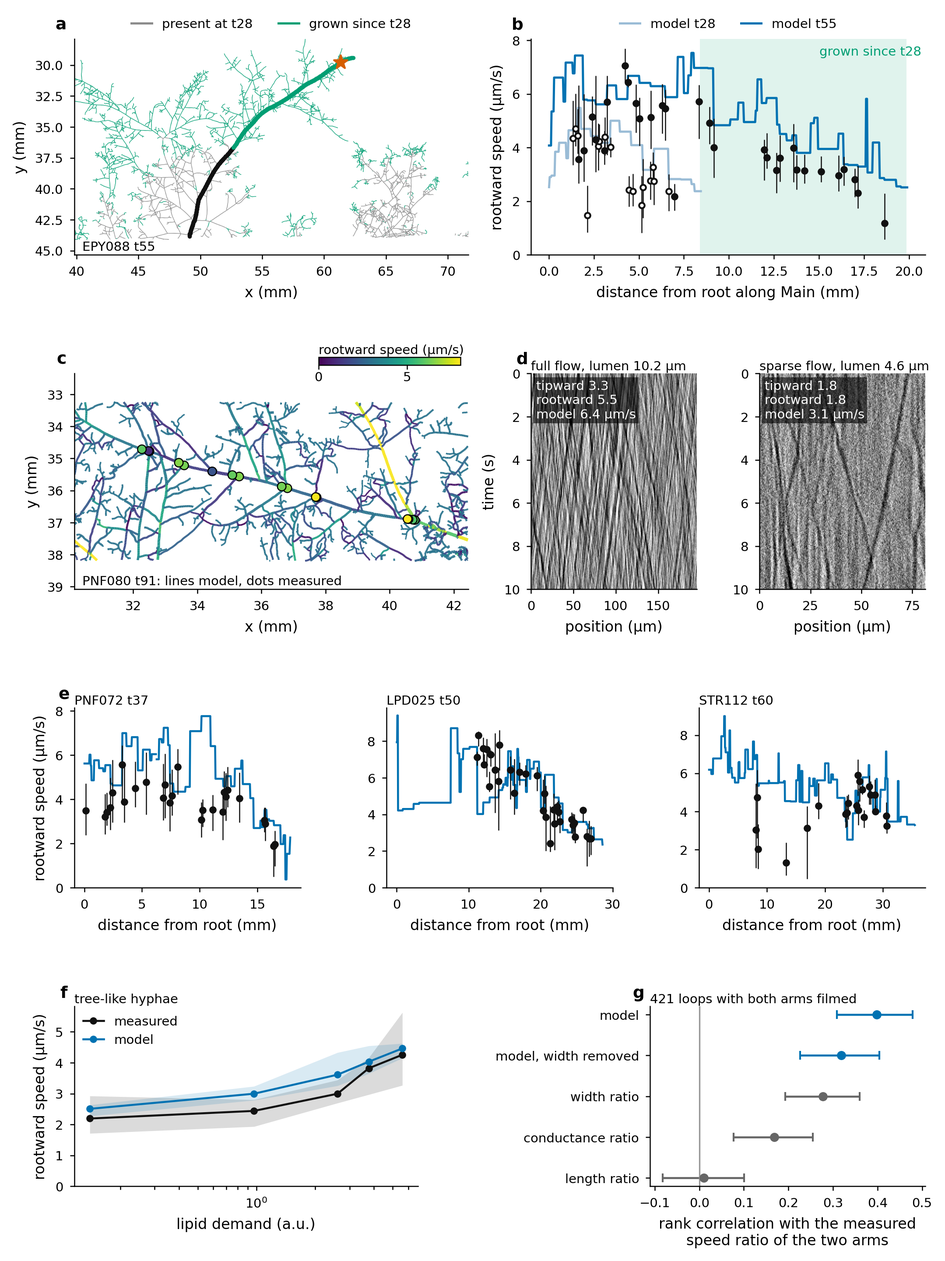
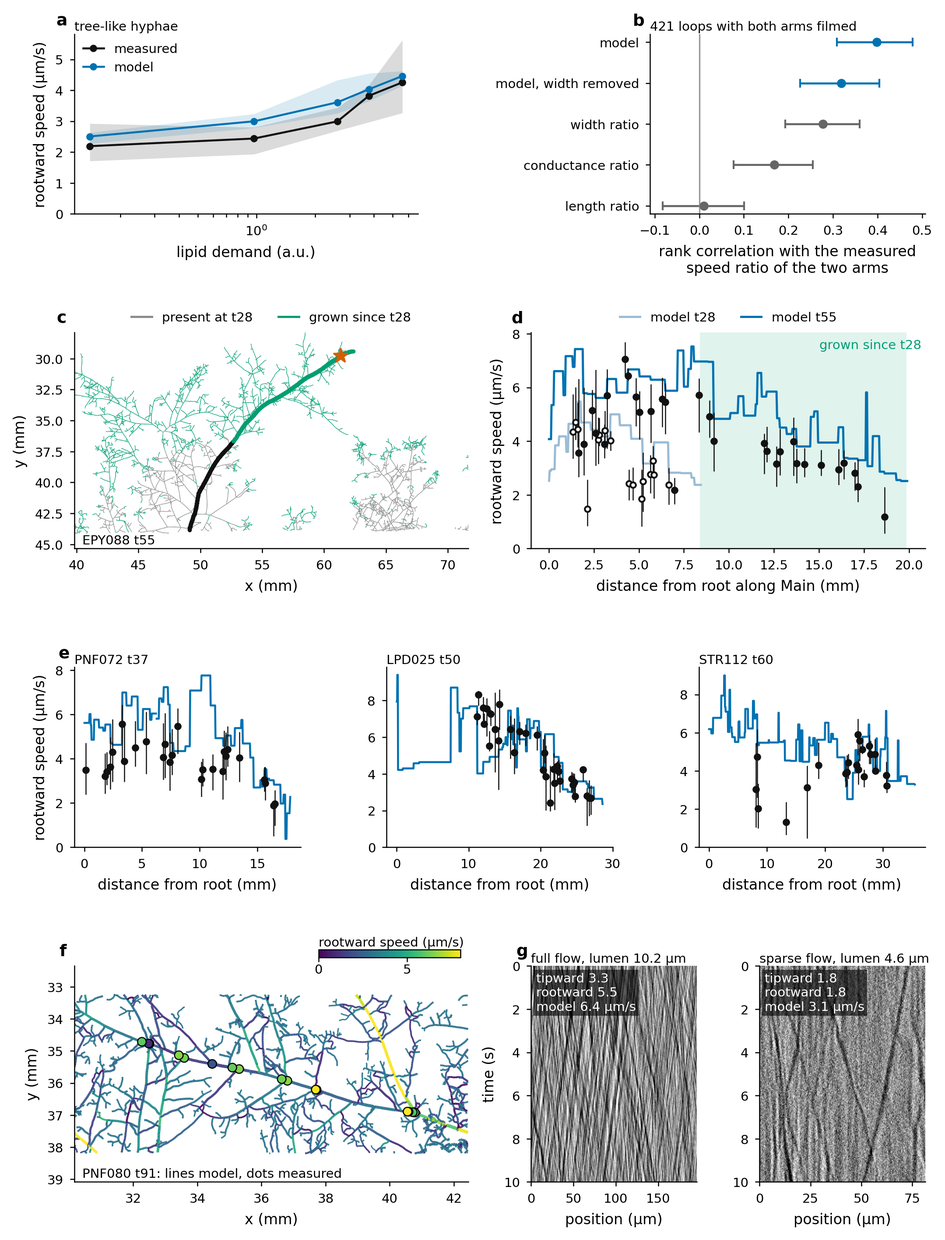
Fig 6 reordered to follow the Fig 4 properties it tests (a tree, b loops, c-d growth, e plates, f-g misses); caption reordered and retitled; panel references in notes remapped

diff --git a/01_Article_MainText.tex b/01_Article_MainText.tex
@@ -304,7 +304,7 @@ A number of properties can be shown in toy networks (Figure~\ref{fig:schematic_m
 Tree networks aggregate backflow into their central trunk,   increasing flow rate (Figure \ref{fig:schematic_model}D).
 This increase in flow rate can increase backflow speeds, if not modulated by a greater flow capacity, which can be done by increasing the diameter (Figure \ref{fig:schematic_model}E).
 One feature this model also predicts is circularity in added loops, specifically if these have a width imbalance.
-% NOTE (16 Oct, Fig 4G): In the model, motor speed depends on the distance to the nearest tip, not on demand. Growth raises the routed lipid demand, which thickens the motor-driven condensate layer and so increases the volume the motors carry and with it the return. On EPY088 Main (Fig 6b), demand rose 3.3-fold and the model's return flux 1.56-fold (see the Fig 6b note).
+% NOTE (16 Oct, Fig 4G): In the model, motor speed depends on the distance to the nearest tip, not on demand. Growth raises the routed lipid demand, which thickens the motor-driven condensate layer and so increases the volume the motors carry and with it the return. On EPY088 Main (Fig 6d), demand rose 3.3-fold and the model's return flux 1.56-fold (see the Fig 6d note).
 The pressure difference that has to be serviced by both makes the wide arm flow faster, and the narrow arm far slower than in just a single edge.
 % NOTE (7 Oct, terminology): The terms 'width imbalance', 'wide arm' and 'narrow arm' here, and 'Width has a calming effect' in the Fig 4 caption (E, I), need diameter wording per the width rule.
 While this increases energy overall in the network, these induced circularities likely facilitate the distribution of nutrients in the backflow throughout the network (Figure \ref{fig:schematic_model}F).
@@ -355,24 +355,24 @@ Paler points have a larger uncertainty (the measured interquartile range and the
     \label{fig:fig5_plug}
 \end{figure}
 % NOTE (15 Oct, main-text review): The Fig 5 caption was drafted by Claude (Simon, 15 Oct) from the current panels and numbers (note below). Panel (b) shows the Bayesian fit, while the model runs on the earlier least-squares constants of the same form (3.10 / 2.14 um/s, 1.71 mm; Methods), so 'motors at the profile of (b)' is approximate.
-% NOTE (15 Oct, Keras widths; supersedes the numbers of the Fig 5 notes above where they differ): The main model now runs on the recalibrated Keras widths (0.75 times the legacy Keras width, with a fallback of 0.83 times the segmenter width; Methods, transport model). The files figures/fig_plug_model.png and fig6_model_examples.png were redrawn (transport_paper junction/global_gimf_gimf_minedge20_keras_ratio_fb, feat/flow-regime). In (a), with 1,544 edges in 15 sessions, 77.5 % of all edges are within a factor of 2 (segmenter widths 78.0 %), KS is 0.056 and the median fold error is 1.45. Panel (b) is unchanged. In (c), 274 trail segments are 86 % within a factor of 2, with bias 1.21. In (d) the bin counts are unchanged (3, 14, 19, 65, 73, 100, 130, 88). In Fig 6b, 30 segments are 90 % within a factor of 2, with median |log2 error| 0.31. Model over measured by lumen-width tercile is 1.15 / 1.03 / 0.99 (segmenter 1.20 / 1.05 / 0.96). Within 1 mm of a tip the model gives 3.11 um/s (segmenter 2.84, measured 2.17); beyond 8 mm it gives 3.50 (measured 4.22). The theta sweep and the model-variant comparisons were run on the segmenter widths.
-% NOTE (17 Oct, Fig 5c window, Simon): Panel c now shows both the model and the measurement as medians over the trail's segments within +-0.5 mm (model_accuracy_two_models.py --model-window-median 500 --meas-window-median 500; only panel c changed). Sweep on the 274 segments (within 2x / bias / mean |log2 err| / log-log rho): no window 86 % / 1.21 / 0.56 / 0.18; model only 500 um 87 % / 1.19 / 0.52 / 0.18; measured only 500 um 85 % / 1.19 / 0.52 / 0.17; both 250 um 88 % / 1.19 / 0.51 / 0.17; both 500 um 88 % / 1.17 / 0.48 / 0.19; both 1 mm 89 % / 1.17 / 0.47 / 0.18; both 2 mm 93 % / 1.17 / 0.40 / 0.29 (at that scale it compares trail trends, and neighbouring points share most of their data). A constant model (4.2 um/s on every segment) is within a factor of 2 on 91 % of these segments, because the measured speeds span a narrow range (25th-75th percentile 3.0-4.4 um/s), so the within-2x share on trail segments is a weak test; the model's case rests on the distribution over all edges (5a), the rise away from tips (5d), growth (6b) and routing (6g).
+% NOTE (15 Oct, Keras widths; supersedes the numbers of the Fig 5 notes above where they differ): The main model now runs on the recalibrated Keras widths (0.75 times the legacy Keras width, with a fallback of 0.83 times the segmenter width; Methods, transport model). The files figures/fig_plug_model.png and fig6_model_examples.png were redrawn (transport_paper junction/global_gimf_gimf_minedge20_keras_ratio_fb, feat/flow-regime). In (a), with 1,544 edges in 15 sessions, 77.5 % of all edges are within a factor of 2 (segmenter widths 78.0 %), KS is 0.056 and the median fold error is 1.45. Panel (b) is unchanged. In (c), 274 trail segments are 86 % within a factor of 2, with bias 1.21. In (d) the bin counts are unchanged (3, 14, 19, 65, 73, 100, 130, 88). In Fig 6d, 30 segments are 90 % within a factor of 2, with median |log2 error| 0.31. Model over measured by lumen-width tercile is 1.15 / 1.03 / 0.99 (segmenter 1.20 / 1.05 / 0.96). Within 1 mm of a tip the model gives 3.11 um/s (segmenter 2.84, measured 2.17); beyond 8 mm it gives 3.50 (measured 4.22). The theta sweep and the model-variant comparisons were run on the segmenter widths.
+% NOTE (17 Oct, Fig 5c window, Simon): Panel c now shows both the model and the measurement as medians over the trail's segments within +-0.5 mm (model_accuracy_two_models.py --model-window-median 500 --meas-window-median 500; only panel c changed). Sweep on the 274 segments (within 2x / bias / mean |log2 err| / log-log rho): no window 86 % / 1.21 / 0.56 / 0.18; model only 500 um 87 % / 1.19 / 0.52 / 0.18; measured only 500 um 85 % / 1.19 / 0.52 / 0.17; both 250 um 88 % / 1.19 / 0.51 / 0.17; both 500 um 88 % / 1.17 / 0.48 / 0.19; both 1 mm 89 % / 1.17 / 0.47 / 0.18; both 2 mm 93 % / 1.17 / 0.40 / 0.29 (at that scale it compares trail trends, and neighbouring points share most of their data). A constant model (4.2 um/s on every segment) is within a factor of 2 on 91 % of these segments, because the measured speeds span a narrow range (25th-75th percentile 3.0-4.4 um/s), so the within-2x share on trail segments is a weak test; the model's case rests on the distribution over all edges (5a), the rise away from tips (5d), growth (6d) and routing (6b).
 
 \begin{figure}
     \centering
     \includegraphics[width=\linewidth]{figures/fig6_model_examples.png}
-    \caption{\textbf{The model follows a trail as it grows; where it misses, the network solve or the flow itself is the cause.}
+    \caption{\textbf{Network-level tests of the model's predictions (Fig.~\ref{fig:schematic_model}D-G), and where it misses.}
 Model as in Fig.~\ref{fig:fig5_plug} (blue); measured bright-field rootward speed per trail segment, median with 25th--75th percentile (black).
-\textbf{(a)} Network of EPY088 at session t55, every hypha coloured by whether it was present at t28 (grey) or grew since (green), with trail Main in bold: the stretch that existed at t28 (black) and the stretch grown since (green, 8.4 to 19.8~mm), and its tip (star).
-\textbf{(b)} Rootward speed along Main against the distance from the root, model at t28 (light blue) and t55 (blue; running median over 5 segments), measured at t28 (open) and t55 (filled); green: grown since t28.
+\textbf{(a)} Tree-like hyphae (edges on no loop that carry lipid demand, 111 edges): rootward speed against the routed lipid demand, medians of the five demand quintiles with 25th--75th percentile, measured (black) and model (blue); the model is within a factor 2 of the measurement on 94\% of these edges.
+\textbf{(b)} Loops with both arms filmed (421 loops): rank correlation with the measured rootward speed ratio of the two arms, for the model, for the model with the arms' width ratio removed from both ratios (partial correlation), and for the width, conductance and length ratios of the two arms, with bootstrap 95\% intervals.
+\textbf{(c)} Network of EPY088 at session t55, every hypha coloured by whether it was present at t28 (grey) or grew since (green), with trail Main in bold: the stretch that existed at t28 (black) and the stretch grown since (green, 8.4 to 19.8~mm), and its tip (star).
+\textbf{(d)} Rootward speed along Main against the distance from the root, model at t28 (light blue) and t55 (blue; running median over 5 segments), measured at t28 (open) and t55 (filled); green: grown since t28.
 On the stretch that existed at t28 the model rises 1.51-fold (median 4.17 to 6.29~$\mu$m/s) and the measurement 1.71-fold (3.01 to 5.14~$\mu$m/s; 16 and 15 segments); at t55, 90\% of the 30 measured segments are within a factor 2 of the model (median $|\log_2|$ error 0.31).
-\textbf{(c)} Where the model sends a hypha's return elsewhere: trail LeftMiddle of PNF080 at t91, 8 to 19~mm from the root, every edge coloured by the modelled rootward speed (line width proportional to hyphal width) and the 16 measured segments by the measured one, on the same scale.
-Measured: median 6.3~$\mu$m/s to the root and 3.3~$\mu$m/s to the tip; model: 2.1~$\mu$m/s, because the pressure solve returns only 0.66 (interquartile range 0.47--0.79) of the trail's motor stream through its own core and sends the rest back through neighbouring hyphae.
-\textbf{(d)} Full and sparse flow: bright-field kymographs of two edges of PNF080 at t81, both more than 6~mm from a growing tip (moving signal only, time mean removed; 20 frames per second).
-Left, full flow (lumen 10.2~$\mu$m): tipward 3.3, rootward 5.5, model 6.4~$\mu$m/s; right, sparse flow (lumen 4.6~$\mu$m): few, faint streaks at 1.8~$\mu$m/s in both directions, model 3.1~$\mu$m/s (SI, \nameref{subsec:si_flow_regimes}).
 \textbf{(e)} One trail on each of the other plates: PNF072 t37 Middle (26 segments, 92\% within a factor 2), LPD025 t50 Middle (32, 94\%) and STR112 t60 LeftMiddle (21, 86\%).
-\textbf{(f)} Tree-like hyphae (edges on no loop that carry lipid demand, 111 edges): rootward speed against the routed lipid demand, medians of the five demand quintiles with 25th--75th percentile, measured (black) and model (blue); the model is within a factor 2 of the measurement on 94\% of these edges.
-\textbf{(g)} Loops with both arms filmed (421 loops): rank correlation with the measured rootward speed ratio of the two arms, for the model, for the model with the arms' width ratio removed from both ratios (partial correlation), and for the width, conductance and length ratios of the two arms, with bootstrap 95\% intervals.}
+\textbf{(f)} Where the model sends a hypha's return elsewhere: trail LeftMiddle of PNF080 at t91, 8 to 19~mm from the root, every edge coloured by the modelled rootward speed (line width proportional to hyphal width) and the 16 measured segments by the measured one, on the same scale.
+Measured: median 6.3~$\mu$m/s to the root and 3.3~$\mu$m/s to the tip; model: 2.1~$\mu$m/s, because the pressure solve returns only 0.66 (interquartile range 0.47--0.79) of the trail's motor stream through its own core and sends the rest back through neighbouring hyphae.
+\textbf{(g)} Full and sparse flow: bright-field kymographs of two edges of PNF080 at t81, both more than 6~mm from a growing tip (moving signal only, time mean removed; 20 frames per second).
+Left, full flow (lumen 10.2~$\mu$m): tipward 3.3, rootward 5.5, model 6.4~$\mu$m/s; right, sparse flow (lumen 4.6~$\mu$m): few, faint streaks at 1.8~$\mu$m/s in both directions, model 3.1~$\mu$m/s (SI, \nameref{subsec:si_flow_regimes}).}
     \label{fig:fig6_examples}
 \end{figure}
 % NOTE (16 Oct, Fig 6 as it stands; caption drafted by Claude from the panels; transport_paper manuscript_figures/fig6_examples.py on feat/flow-regime, main-model tables): (a) EPY088 t55 with every edge coloured present at t28 or grown since (matched by position within 15 um; 70 % of the t55 length is new). (b) The growth step on Main. (c) The PNF080 t91 LeftMiddle miss: model 2.06 against measured 6.31 um/s (16 segments at 8-19 mm from the root); the return over the motor stream is 0.66 (IQR 0.47-0.79, 341 segments), the circulation of the Discussion note. (d) Full against sparse kymographs from the blind labelling rounds (items 45 and 54, PNF080 t81, 8.5 and 6.2 mm from a tip, 196 and 81 um long); sparse flow covers 13 % of edges, with model bias 1.60 (SI). (e) One trail per other plate. (f) Tree-like hyphae against demand (tree_validation.py: 111 edges, 94 % within a factor of 2; demand effect measured 0.11 against model 0.13; no width effect detectable at fixed demand); it backs Fig 4D-E. (g) Loop routing, 421 loops with both arms filmed (loop_arm_length.py): model rho 0.40 [0.31, 0.48], 0.32 after removing the width ratio, width ratio 0.28, conductance ratio 0.17, length ratio 0.01; 158 loops with the filmed arms more than 150 um apart give 0.44; it backs Fig 4F as routing, not as an effect of arm length (SI figures for the loop density plot and the side branches along the trunks are built, not yet in the SI). Within-trail Spearman of model against measured: 0.67 for EPY088 t55 Main, 0.39 for t28 (16 segments, 88 % within a factor of 2), 0.19 PNF072 t37, 0.42 LPD025 t50, -0.14 STR112 t60, 0.02 PNF080 t91; over the 29 trails with >= 8 measured segments the median fold error is 1.37 (largest 2.26) and the median within-trail rho 0.15 (negative on 9), so the level holds and the order along a trail only partly. LPD025 Middle over t25 / t36 / t50 (1.80 / 1.73-fold in the model, 1.23 / 2.54-fold measured, 7-10 segments) was left out as too few.
@@ -382,18 +382,18 @@ Left, full flow (lumen 10.2~$\mu$m): tipward 3.3, rootward 5.5, model 6.4~$\mu$m
 
 \subsubsection*{The network model reproduces the measured speeds and their spatial pattern}
 Could our conceptual model at the network level quantitatively explain the variation of speeds observed throughout the networks (Fig.\ref{fig:hyphal_profiling}f)?
-% NOTE (15 Oct, updated 16 Oct): Fig 1 has panels A-E (no f), and the variation across networks is shown in Fig 2B (or in Fig 1E for one trail). Panel letters in this subsection are stale: 'Fig 5 A' is (a), 'Fig 5 F' and 'Fig 5 e' do not exist (the trail rise is Fig 5d, the growth step Fig 6b). Fig 6 is not referred to anywhere in the text. The overall scores (77.5 % of edges within a factor of 2, 86 % of trail segments) and the known limits (consolidated note in the Methods transport model) are not reported.
+% NOTE (15 Oct, updated 16 Oct): Fig 1 has panels A-E (no f), and the variation across networks is shown in Fig 2B (or in Fig 1E for one trail). Panel letters in this subsection are stale: 'Fig 5 A' is (a), 'Fig 5 F' and 'Fig 5 e' do not exist (the trail rise is Fig 5d, the growth step Fig 6d). Fig 6 is not referred to anywhere in the text. The overall scores (77.5 % of edges within a factor of 2, 86 % of trail segments) and the known limits (consolidated note in the Methods transport model) are not reported.
 To answer that question, we first plotted the distribution of observed and modeled flow speeds for all edges observed in high magnification (Fig.\ref{fig:fig5_plug} A).
 We found that the model could overall explain well the distribution of speeds from 1.5 to 6 $\mu m/s$.
 % NOTE (15 Oct, main-text review): The current 5-95th percentiles are 1.03-7.15 for the model and 1.61-6.82 um/s measured (KS 0.056); the 25-75th percentiles are 2.52-4.87 against 2.41-4.86.
 Speeds slower than $v_m$ were explained by the existence of loops in the network that led to a net circulation of water through some of the pipes that crossed the same direction as lipid flux.
-% NOTE (15 Oct, updated 16 Oct): The data now speak against this sentence. Measured slow speeds sit on tree-like and poorly connected edges, not on loops: the measured rootward speed is lower on tree than on loop edges and rises with robustness kappa (SI subsec:si_tree_loop), and sparse-flow edges (13 %, ~1.8 um/s both ways) make up many of the slow ones, which the model does not describe (SI, full and sparse flow). In the model, the core flows tipward on only 0.5-2.6 % of edge length, while loop arms carry a median net flux of 30 % of their motor flux; its too-slow misses are this circulation (e.g. Fig 6c).
+% NOTE (15 Oct, updated 16 Oct): The data now speak against this sentence. Measured slow speeds sit on tree-like and poorly connected edges, not on loops: the measured rootward speed is lower on tree than on loop edges and rises with robustness kappa (SI subsec:si_tree_loop), and sparse-flow edges (13 %, ~1.8 um/s both ways) make up many of the slow ones, which the model does not describe (SI, full and sparse flow). In the model, the core flows tipward on only 0.5-2.6 % of edge length, while loop arms carry a median net flux of 30 % of their motor flux; its too-slow misses are this circulation (e.g. Fig 6f).
 According to equations \ref{eq:net_inner_flow} and \ref{eq:speed_profile_main}, when $q_w$ is large enough and positive, $q_{w,r<a}$ can also be positive and larger than $\pi a^2 v_m$, which can lead to the absolute speed being lower than $v_m$.
 During the length of a hypha, our model could explain the gradual increase of flow speed when moving away from the tip, as well as the sudden decrease which seemed to coincide with entering regions with multiple alternative paths due to anastomoses to the root (Fig.\ref{fig:fig5_plug}F).
-% NOTE (15 Oct, main-text review): Panel F is now Fig 6b, and the trail-wide rise is in Fig 5d. No panel shows a 'sudden decrease' on entering looped regions.
+% NOTE (15 Oct, main-text review): Panel F is now Fig 6d, and the trail-wide rise is in Fig 5d. No panel shows a 'sudden decrease' on entering looped regions.
 Our model could also explain the increase in flow speed over time at specific locations (Fig.\ref{fig:fig5_plug}e). 
-% NOTE (15 Oct, Fig 6b backs Fig 4G; Simon): On EPY088 Main, on the stretch that existed at t28 (medians per segment, from t28 to t55), the routed lipid demand rises 3.3-fold (1.37 to 4.57), the lumen area b^2 1.36-fold (b 4.77 to 5.57 um), the return-core area a^2 1.06-fold (a 4.46 to 4.60 um), the return flux 1.56-fold and the model rootward speed 1.54-fold (4.09 to 6.32 um/s); the measured speed rises 1.71-fold (3.01 to 5.14 um/s). The hypha widens, but the extra cross-section goes mostly to the motor annulus carrying the extra lipid, so demand wins over widening, as in the Fig 4G growth step. Simon's framing is that widening is sparked by demand, so the two cancel or demand wins. As a caveat, our data do not show widening following demand. The per-edge lagged correlation of demand and width changes is ~0 at every lag, edges with a clear width rise show no demand rise before the onset, and the regression effect from backflow to widening vanished with uniform widths (transport_paper demand_rise.py, demand_widening.py). Only one trail has two sessions with enough segments (LPD025 Middle: 7-10 per session).
-% NOTE (16 Oct): The increase over time at specific locations is Fig 6b (EPY088 Main, t28 to t55; the Fig 6b note below has the numbers); 'Fig 5e' does not exist. LPD025 Middle (t25 / t36 / t50) is the only other trail with enough segments in several sessions.
+% NOTE (15 Oct, Fig 6d backs Fig 4G; Simon): On EPY088 Main, on the stretch that existed at t28 (medians per segment, from t28 to t55), the routed lipid demand rises 3.3-fold (1.37 to 4.57), the lumen area b^2 1.36-fold (b 4.77 to 5.57 um), the return-core area a^2 1.06-fold (a 4.46 to 4.60 um), the return flux 1.56-fold and the model rootward speed 1.54-fold (4.09 to 6.32 um/s); the measured speed rises 1.71-fold (3.01 to 5.14 um/s). The hypha widens, but the extra cross-section goes mostly to the motor annulus carrying the extra lipid, so demand wins over widening, as in the Fig 4G growth step. Simon's framing is that widening is sparked by demand, so the two cancel or demand wins. As a caveat, our data do not show widening following demand. The per-edge lagged correlation of demand and width changes is ~0 at every lag, edges with a clear width rise show no demand rise before the onset, and the regression effect from backflow to widening vanished with uniform widths (transport_paper demand_rise.py, demand_widening.py). Only one trail has two sessions with enough segments (LPD025 Middle: 7-10 per session).
+% NOTE (16 Oct): The increase over time at specific locations is Fig 6d (EPY088 Main, t28 to t55; the Fig 6d note below has the numbers); 'Fig 5e' does not exist. LPD025 Middle (t25 / t36 / t50) is the only other trail with enough segments in several sessions.
 
 \subsubsection*{One physical model from pipe to network, with consequences for trade}
 Our simple physical model can therefore explain a wide variety of our experimental observations.

diff --git a/02_Article_Supplementary.tex b/02_Article_Supplementary.tex
@@ -227,7 +227,7 @@ This could explain why active transport mechanisms at high speeds are necessary 
 % NOTE (14 Oct, final model and the variants it was chosen over; all on the current tables, 1,574 bright-field edges, global pressure solve unless stated; transport_paper feat/flow-regime): The main model is GIMF motors + GIMF routing, a >= 0.8 b, theta 0.05: 77.6 % within a factor of 2, KS 0.045 (distribution matched; segmenter widths, 10 um minimum edge; with the recalibrated Keras widths and 20 um minimum edge the main model gives 77.5 % and KS 0.056 on 1,544 edges, see the 15 Oct notes in \nameref{subsec:si_widths}). (6, motor direction / routing) Growth-graph motors with GIMF, area or even routing give 75.5-75.8 % within a factor of 2, KS 0.25, and a 95th percentile of 4.7 against 6.8 um/s. Per edge, the gain of GIMF motors is on edges where both directions agree (3.87 against 3.17 um/s; in the fastest measured quarter, 70 against 51 % within a factor of 2), not on the 263 edges where they disagree (on 69 % of those the observed direction sides with growth); see motor_direction_tail.py. (7, return) Weak coupling at 10 mm with growth motors gives 87.2 % within a factor of 2, but the spread is too small (log-SD 0.18 against 0.47); the global solve with growth motors gives 73 %. (8, supply-set lane instead of the demand annulus, growth motors) A constant a/b of 0.80-0.93 gives 77.9-79.4 % on full flow, KS 0.16-0.25; the width law x = 0.30 (w/10 um)^gamma gives 80.1-81.4 %. None reproduces the rise of the measured rootward / tipward ratio with lumen width (0.93 to 1.80) or along trails; see supply_compare.py and fig5_variants.py. (9, core floor) a >= 0.9 b gives a trail bias of 1.10 (against 1.21) and a near-tip speed of 2.61 against 2.84 um/s (measured 2.13), but KS 0.093. (10, regimes) Sparse flow (streak density >= 0.27 / um / s, from Simon's blind labels; 13 % of filmed edges) is over-predicted by a factor of 1.6-1.7 by every variant; on full-flow edges the main model is 79.2 % within a factor of 2. (11, demand against measured lipid transport) The Nile Red tipward flux barely follows the routed demand (elasticity 0.02-0.04 over 2.7 decades of demand).
 % NOTE (14 Oct, theta on the final model; theta_sweep_gimf.py, 1,574 edges, 10 um minimum edge): For theta 0.02 / 0.05 / 0.1 / 0.15 / 0.2 / 0.3, the share within a factor of 2 is 75.9 / 77.6 / 77.4 / 76.9 / 76.0 / 75.4 %; KS is 0.086 / 0.045 / 0.097 / 0.133 / 0.154 / 0.172; the trail bias is 1.36 / 1.21 / 1.06 / 1.02 / 0.99 / 0.96; the speed within 1 mm of a tip is 3.28 / 2.85 / 2.53 / 2.50 / 2.43 / 2.38 um/s (measured 2.13); beyond 8 mm it is 3.87 / 3.52 / 3.20 / 3.10 / 3.10 / 3.10 (measured 4.14); the floor binds on 49 / 23 / 6 / 1 / 0.4 / 0.1 % of edges. theta 0.05 gives the best distribution and accuracy; larger theta trades the far-from-tip level for the near-tip bias.
 % NOTE (15 Oct, demand window; transport_paper model_accuracy_throttle.py --demand-window, feat/flow-regime, fig_outputs/flow_regime/demand_window_common.csv): The main model takes the lipid demand from the hypha grown in the 4 frames after the session. The alternative takes it from the growth before the session (network at the earlier frame, so edges grown in the window have no model output). Scored on the 1,263 edges every run covers, next 4 (main) gives 75.5 % within a factor of 2, median fold error 1.48, KS 0.067, trail segments 84.8 % with bias 1.19, and 3.38 within 1 mm of a tip against 2.82 um/s measured (22 edges). Previous 4 gives 76.6 %, 1.46, 0.070, 86.5 % / 1.11, 2.81. Centred (-2, 2] gives 76.9 %, 1.46, 0.067, 88.2 % / 1.18, 3.19. Previous 8 gives 78.2 %, 1.42, 0.082, 90.4 % / 0.97, 3.00. Past growth predicts the rootward speed slightly better, consistent with backflow lagging growth. It does not fix PNF080 t91 LeftMiddle at 9-17 mm (model 1.8-2.9 against 6.5 um/s measured), where the tip region grew 60 mm within 3 mm of the trail in the 10 frames before the session and 9 mm in the 3 after. The cost is that 281 of 1,544 edges (the newest hyphae) drop out with the 8-frame window.
-% NOTE (15 Oct, past demand on the session network; transport_paper past_demand.py, model_accuracy_throttle.py --past-demand K, fig_outputs/flow_regime/past_demand_compare.csv): Here the network stays at the session, so all 1,544 edges keep a prediction, and the lipid demand comes from the hypha grown in the K frames before the session, placed at the free ends of the grown pieces (pieces that have fused into the mesh keep it at their attachment nodes). Against the main model (next 4 frames: within a factor of 2 on 77.5 %, KS 0.056, trail segments 86.1 % with bias 1.21, 3.11 against 2.17 um/s within 1 mm of a tip, 3.50 against 4.22 um/s beyond 8 mm), the past 4, 8 and 12 frames give within a factor of 2 on 78.7, 79.1 and 79.8 %, KS 0.068, 0.070 and 0.072, trail segments 85.0, 86.9 and 88.3 % with bias 1.23, 1.16 and 1.13, 2.66, 2.62 and 2.58 um/s within 1 mm of a tip, and 3.88, 3.76 and 3.73 um/s beyond 8 mm. Past growth therefore reduces both the near-tip over-prediction and the far-from-tip under-prediction and raises the accuracy slightly, at the cost of a slightly worse distribution match. It weakens the growth step of Fig 6b: on EPY088 Main the model rises 1.34- to 1.37-fold from t28 to t55 (main model 1.51-fold, measured 1.71-fold), because the demand at t28 already includes the growth before it. On PNF080 t91 LeftMiddle at 9-17 mm the model rises from 1.8 to 2.4, 2.5 and 2.7 um/s against 6.3 um/s measured.
+% NOTE (15 Oct, past demand on the session network; transport_paper past_demand.py, model_accuracy_throttle.py --past-demand K, fig_outputs/flow_regime/past_demand_compare.csv): Here the network stays at the session, so all 1,544 edges keep a prediction, and the lipid demand comes from the hypha grown in the K frames before the session, placed at the free ends of the grown pieces (pieces that have fused into the mesh keep it at their attachment nodes). Against the main model (next 4 frames: within a factor of 2 on 77.5 %, KS 0.056, trail segments 86.1 % with bias 1.21, 3.11 against 2.17 um/s within 1 mm of a tip, 3.50 against 4.22 um/s beyond 8 mm), the past 4, 8 and 12 frames give within a factor of 2 on 78.7, 79.1 and 79.8 %, KS 0.068, 0.070 and 0.072, trail segments 85.0, 86.9 and 88.3 % with bias 1.23, 1.16 and 1.13, 2.66, 2.62 and 2.58 um/s within 1 mm of a tip, and 3.88, 3.76 and 3.73 um/s beyond 8 mm. Past growth therefore reduces both the near-tip over-prediction and the far-from-tip under-prediction and raises the accuracy slightly, at the cost of a slightly worse distribution match. It weakens the growth step of Fig 6d: on EPY088 Main the model rises 1.34- to 1.37-fold from t28 to t55 (main model 1.51-fold, measured 1.71-fold), because the demand at t28 already includes the growth before it. On PNF080 t91 LeftMiddle at 9-17 mm the model rises from 1.8 to 2.4, 2.5 and 2.7 um/s against 6.3 um/s measured.
 
 \namedsubsection{Splitting the lipid demand between merging hyphae}{subsec:si_demand_split}
 % NOTE (12 Oct): The section text is to be written by Simon; it is cited from the Methods (transport model, demand split). Its purpose (Simon) is to show that the choice of split rule does not matter here, so the main model uses the simplest (even).
